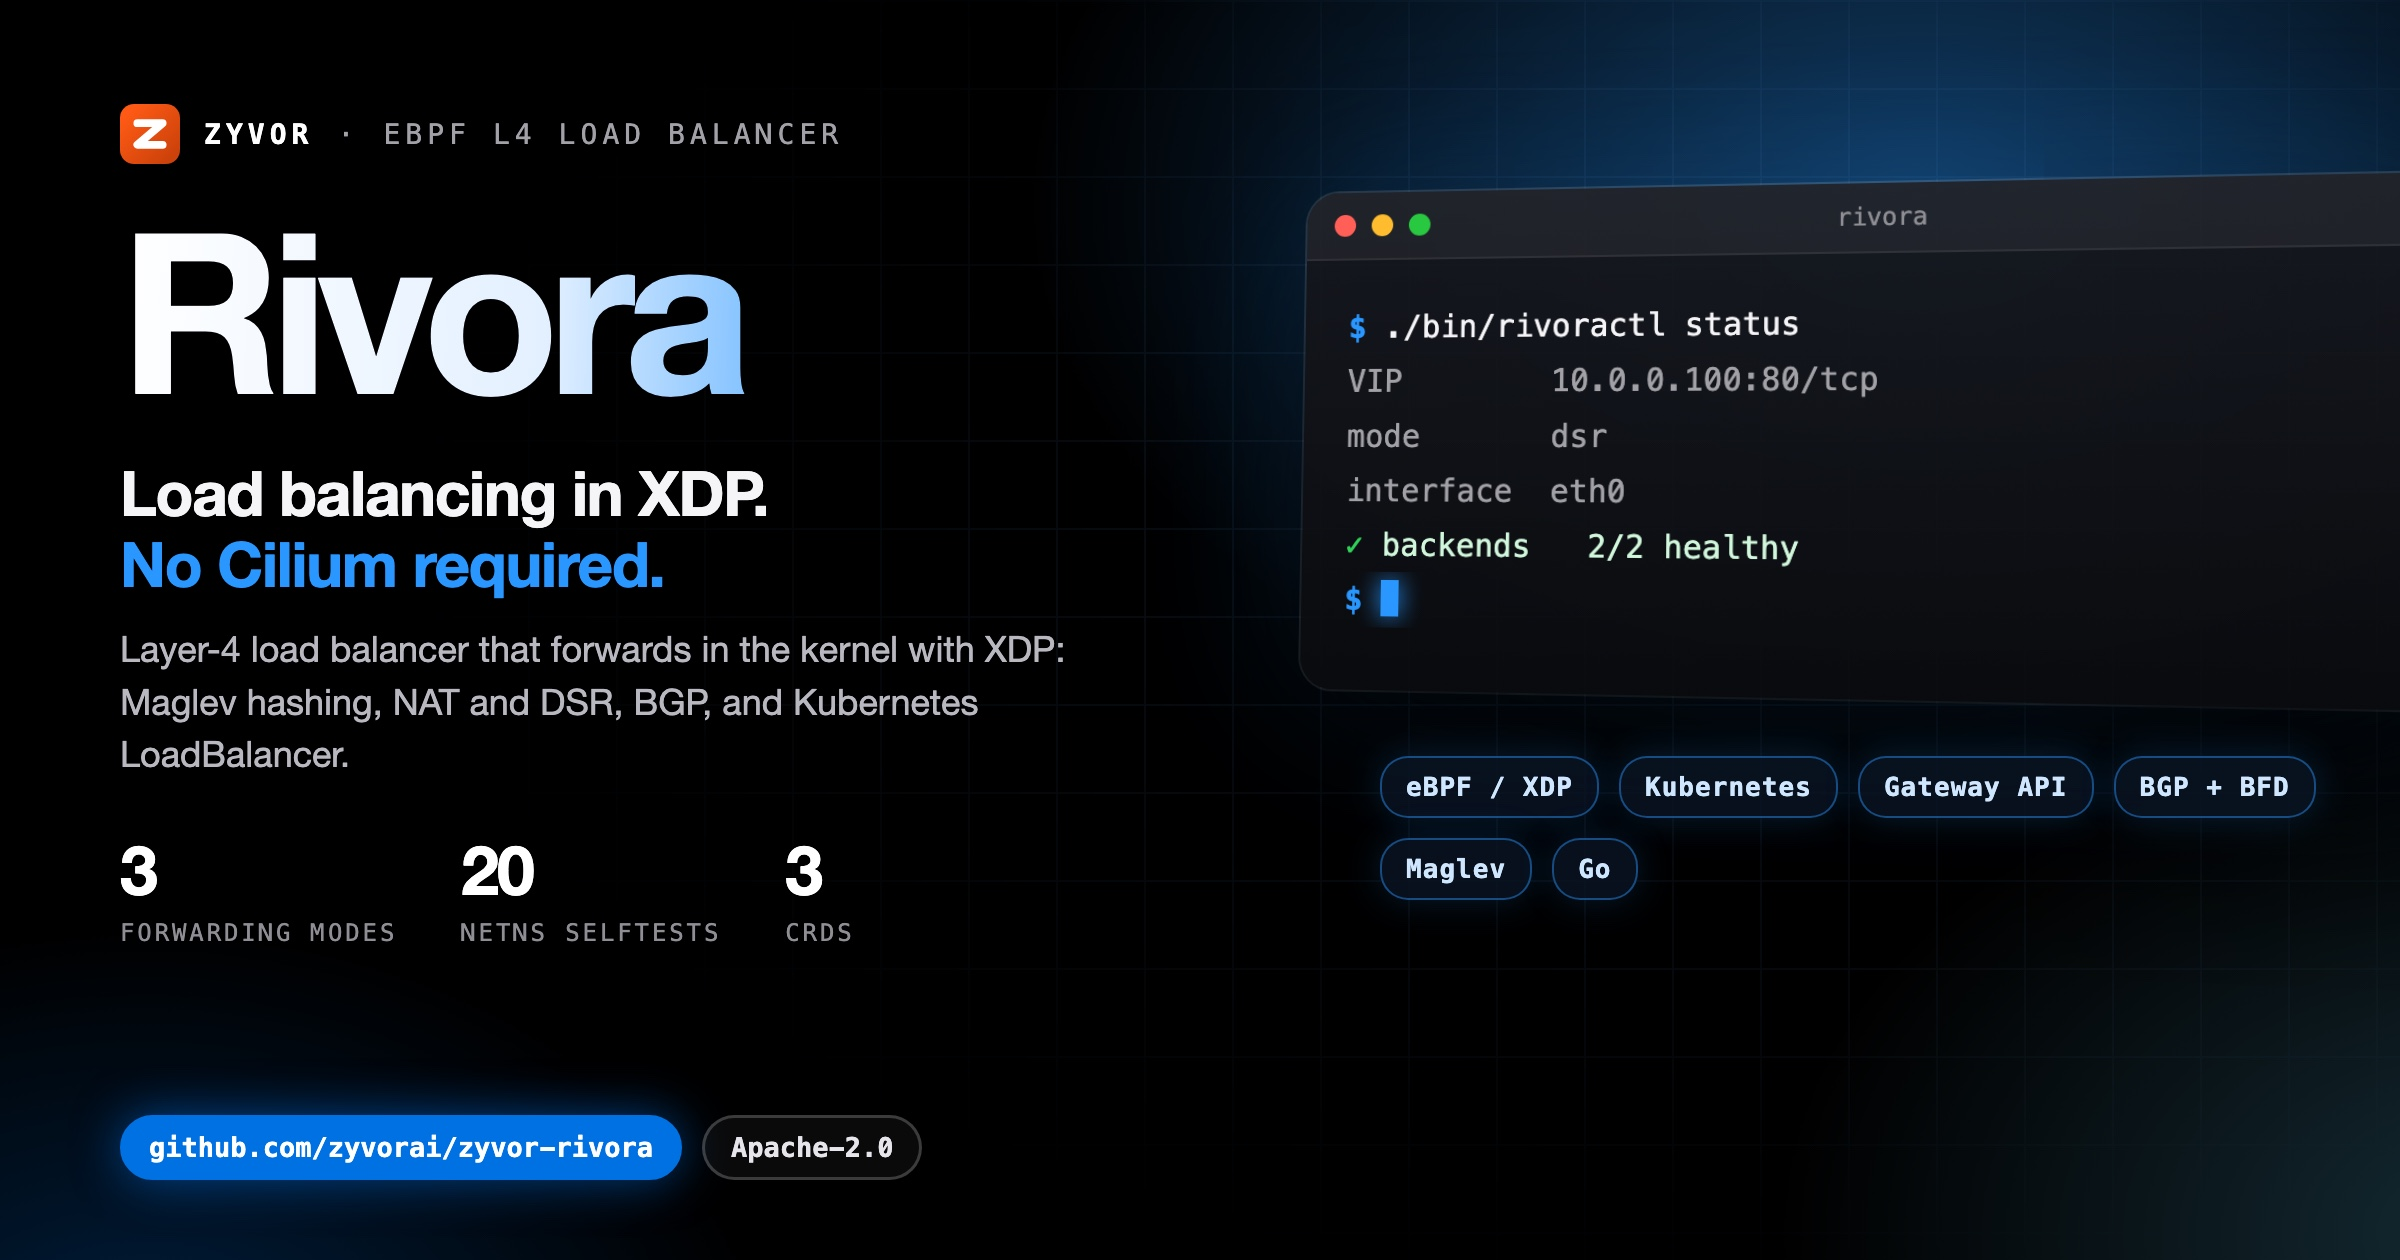
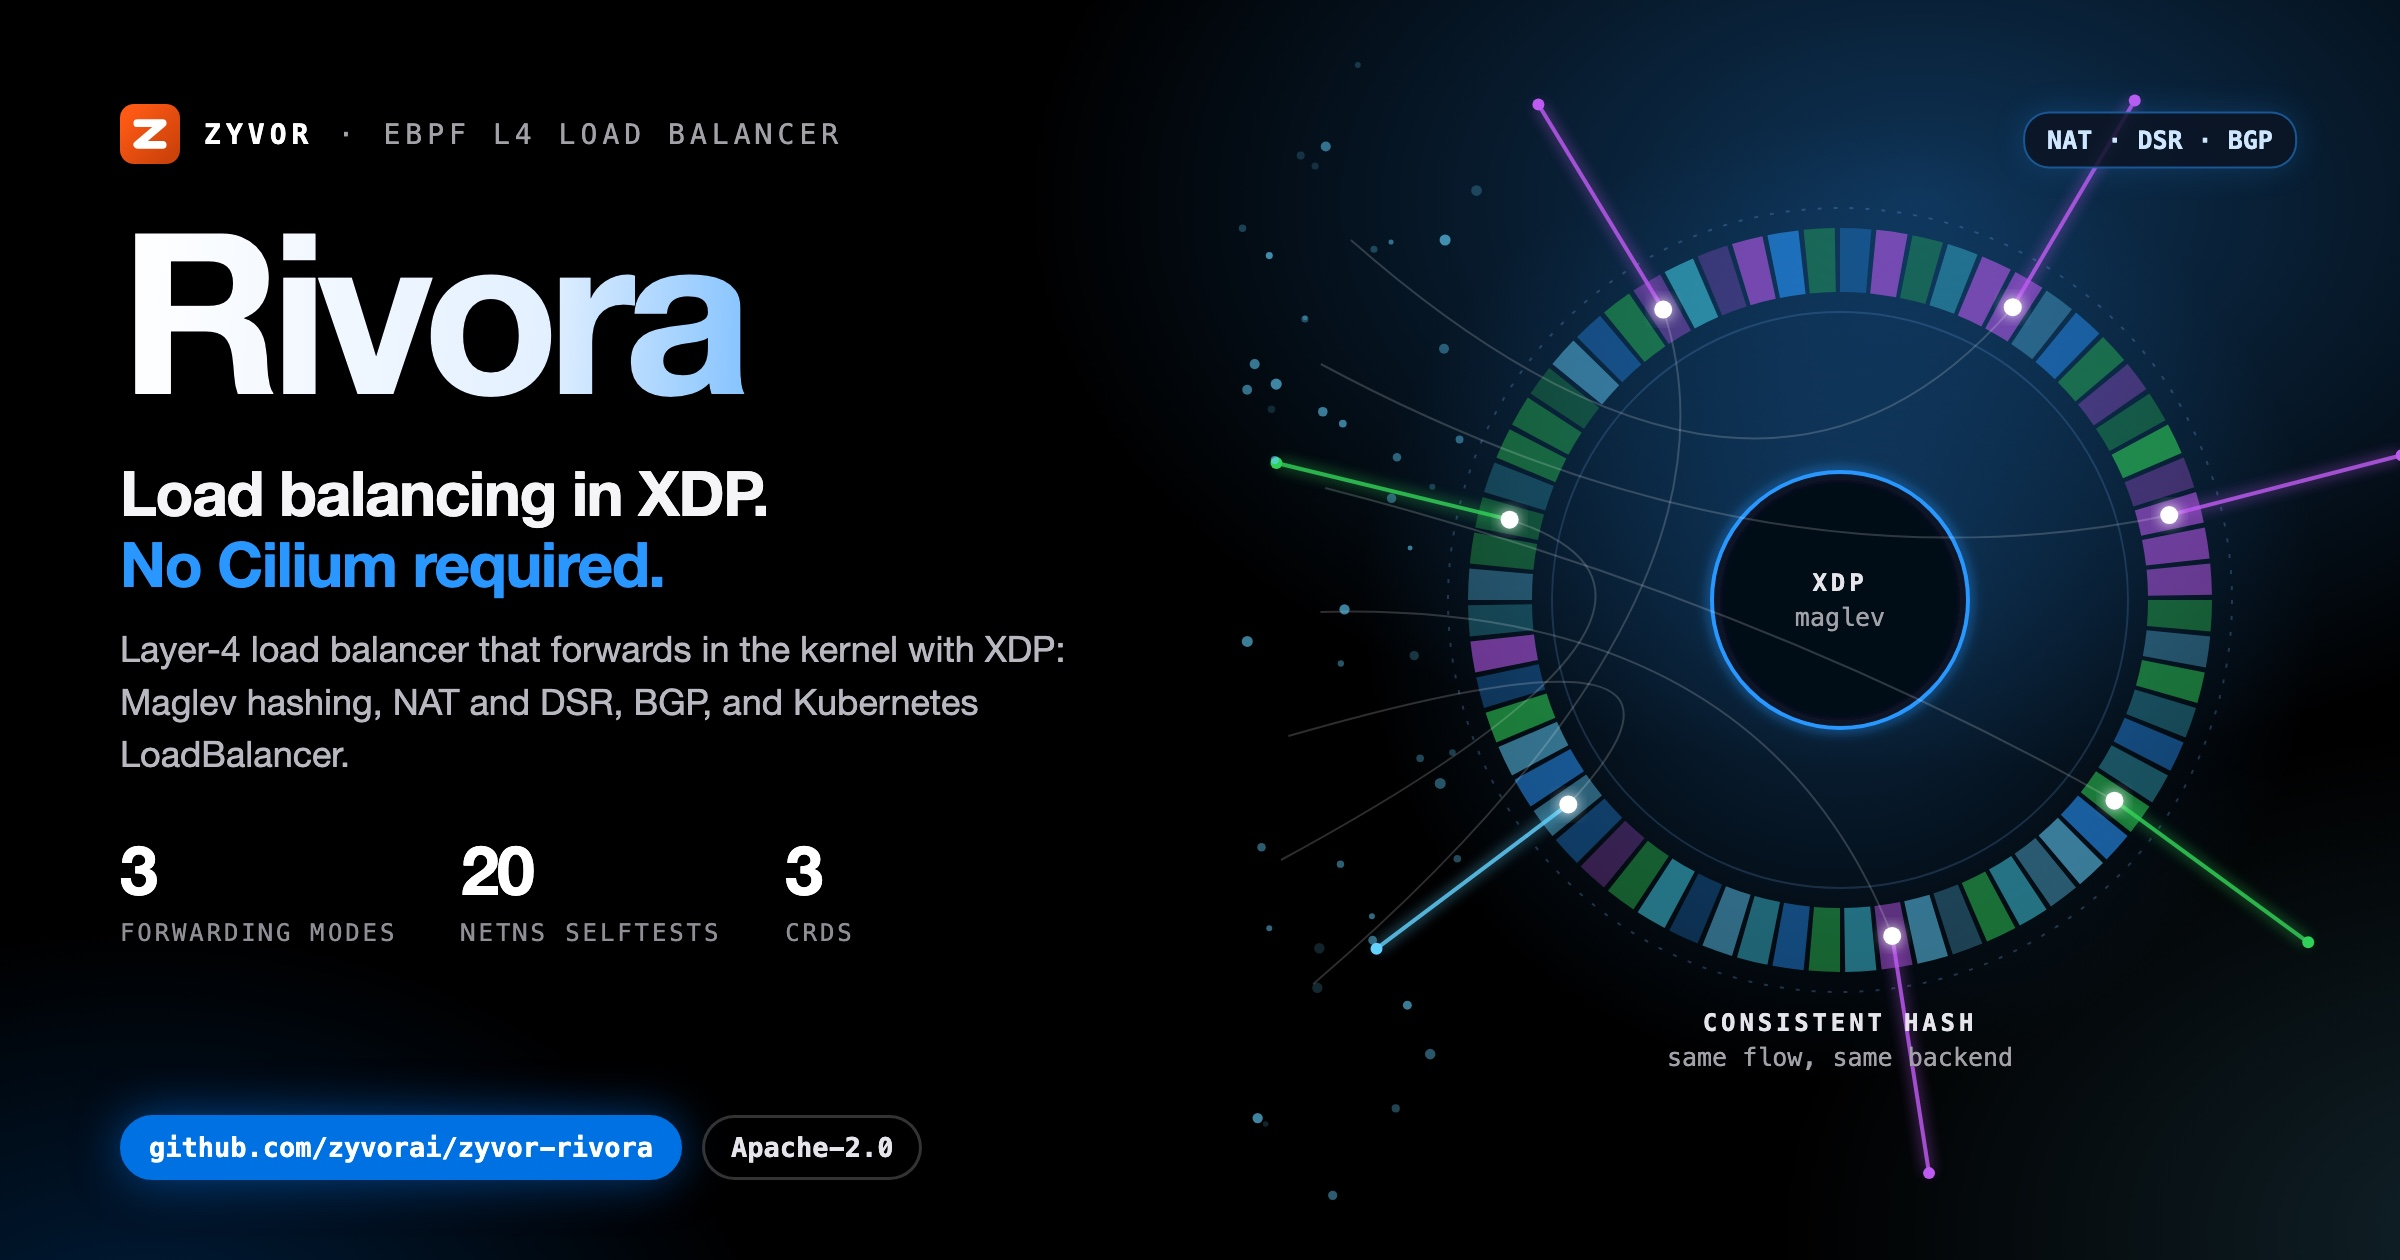
docs(social): unique illustrated hero card
Replace the shared terminal-window art with a motif drawn for this project;
same verified copy and stats on the left.

Changed region(s): [[0.5312, 0.0619, 1.0, 0.9286], [0.9375, 0.7119, 0.9688, 0.7429]]

diff --git a/docs/social/rivora-hero-dark.html b/docs/social/rivora-hero-dark.html
@@ -8,58 +8,47 @@
   Build: ./docs/social/build-hero-dark.sh  ->  rivora-hero-dark.jpg (2400x1260)
 -->
 <style>
-  :root { --blue:#0071e3; --signal:#2997ff; --cyan:#64d2ff; --green:#30d158; --amber:#ff9f0a;
+  :root { --blue:#0071e3; --signal:#2997ff; --cyan:#64d2ff; --green:#30d158; --amber:#ff9f0a; --red:#ff453a; --violet:#bf5af2;
     --sans:'SF Pro Display','Helvetica Neue',Helvetica,Arial,sans-serif; --mono:'SF Mono',Menlo,Consolas,monospace; }
   * { box-sizing:border-box; }
   html,body { margin:0; padding:0; }
   body { width:1200px; height:630px; overflow:hidden; color:#f5f5f7; font-family:var(--sans); position:relative; background:#000; }
   .aurora { position:absolute; inset:0;
-    background:radial-gradient(720px 460px at 80% 16%, rgba(41,151,255,.40), transparent 62%),
-               radial-gradient(600px 420px at 104% 98%, rgba(100,210,255,.20), transparent 60%),
+    background:radial-gradient(720px 460px at 80% 16%, rgba(41,151,255,.34), transparent 62%),
+               radial-gradient(600px 420px at 104% 98%, rgba(100,210,255,.16), transparent 60%),
                radial-gradient(520px 380px at 6% 110%, rgba(0,113,227,.28), transparent 60%); }
-  .grid { position:absolute; inset:0; opacity:.09;
-    background-image:linear-gradient(rgba(120,180,255,.9) 1px,transparent 1px),linear-gradient(90deg,rgba(120,180,255,.9) 1px,transparent 1px);
-    background-size:44px 44px; -webkit-mask-image:radial-gradient(900px 520px at 72% 42%, #000 18%, transparent 75%); }
-  .left { position:absolute; left:60px; top:52px; width:560px; z-index:3; }
+  .copy { position:absolute; left:60px; top:52px; width:560px; z-index:3; }
   .brand { display:flex; align-items:center; gap:12px; font-family:var(--mono); font-size:14px; letter-spacing:.18em; text-transform:uppercase; color:#a1a1a6; }
   .brand b { color:#fff; }
   .word { margin:20px 0 0; font-size:112px; line-height:.95; font-weight:800; letter-spacing:-.05em; white-space:nowrap;
     background:linear-gradient(92deg,#fff 0%,#e3f0ff 38%,var(--signal) 74%,var(--cyan) 100%); -webkit-background-clip:text; background-clip:text; color:transparent; padding-bottom:6px; }
   .tag { margin:14px 0 0; font-size:31px; line-height:1.15; font-weight:700; letter-spacing:-.02em; }
   .tag em { font-style:normal; color:var(--signal); }
-  .lede { margin:12px 0 0; font-size:18px; line-height:1.45; color:#b8b8bf; width:520px; }
+  .lede { margin:12px 0 0; font-size:18px; line-height:1.45; color:#b8b8bf; width:520px; text-shadow:0 1px 12px #000; }
   .stats { margin-top:24px; display:flex; gap:32px; }
   .stat b { display:block; font-size:34px; font-weight:800; letter-spacing:-.03em; color:#fff; }
   .stat span { font-family:var(--mono); font-size:12px; letter-spacing:.12em; text-transform:uppercase; color:#8e8e93; }
   .pill { position:absolute; left:60px; bottom:40px; display:flex; gap:10px; z-index:3; }
-  .pill span { font-family:var(--mono); font-size:13.5px; font-weight:700; padding:7px 13px; border-radius:18px; border:1.5px solid rgba(255,255,255,.2); color:#e5e5ea; background:rgba(255,255,255,.04); }
+  .pill span { font-family:var(--mono); font-size:13.5px; font-weight:700; padding:7px 13px; border-radius:18px; border:1.5px solid rgba(255,255,255,.2); color:#e5e5ea; background:rgba(0,0,0,.6); }
   .pill span.b { background:var(--blue); border-color:var(--blue); color:#fff; box-shadow:0 0 24px rgba(0,113,227,.55); }
-
-  .right { position:absolute; left:652px; top:96px; width:560px; z-index:2; }
-  .win { position:relative; width:560px; border-radius:16px; overflow:hidden; z-index:2;
-    background:linear-gradient(180deg, rgba(22,24,30,.94), rgba(10,11,14,.96));
-    box-shadow:0 50px 100px rgba(0,0,0,.75), 0 0 0 1px rgba(255,255,255,.14), 0 0 90px rgba(41,151,255,.22);
-    transform:perspective(1600px) rotateY(-14deg) rotateX(4deg); transform-origin:left center; }
-  .bar { height:34px; display:flex; align-items:center; gap:8px; padding:0 14px; background:rgba(255,255,255,.05); border-bottom:1px solid rgba(255,255,255,.07); }
-  .bar i { width:11px; height:11px; border-radius:50%; background:#ff5f57; } .bar i:nth-child(2){background:#febc2e} .bar i:nth-child(3){background:#28c840}
-  .bar em { margin-left:auto; margin-right:auto; font-style:normal; font-family:var(--mono); font-size:12px; color:#8e8e93; transform:translateX(-24px); }
-  .term { min-height:214px; padding:20px 22px 24px; font-family:var(--mono); font-size:15.5px; line-height:1.75; }
-  .l { white-space:pre; overflow:hidden; text-overflow:ellipsis; color:#f5f5f7; }
-  .l .p { color:var(--signal); font-weight:700; }
-  .l.out { color:#a1a1a6; }
-  .l.cm { color:#6e6e73; }
-  .l.ok { color:#d1f7dc; } .l.ok span { color:var(--green); font-weight:700; }
-  .l.warn { color:#ffe1b0; } .l.warn span { color:var(--amber); font-weight:700; }
-  .cur { display:inline-block; width:9px; height:18px; background:var(--signal); vertical-align:-3px; box-shadow:0 0 12px var(--signal); }
-  .chips { margin:34px 0 0 38px; width:480px; display:flex; flex-wrap:wrap; gap:10px; position:relative; z-index:3; }
-  .chips span { font-family:var(--mono); font-size:13px; font-weight:700; letter-spacing:.04em; padding:7px 12px; border-radius:14px;
-    color:#cfe6ff; background:rgba(10,20,35,.82); border:1px solid rgba(41,151,255,.45); box-shadow:0 0 18px rgba(41,151,255,.18); }
+  .art { position:absolute; left:520px; top:0; width:680px; height:630px; z-index:2; }
+  .art svg { display:block; }
+  #labels { position:absolute; inset:0; z-index:4; pointer-events:none; }
+  .lbl { position:absolute; font-family:var(--mono); font-size:12.5px; color:#a1a1a6; text-align:center; transform:translate(-50%,-50%); white-space:nowrap; }
+  .lbl b { display:block; font-size:12px; letter-spacing:.16em; text-transform:uppercase; color:#e5e5ea; }
+  .lbl span { display:block; margin-top:3px; }
+  .lbl.box { padding:7px 12px; border-radius:12px; background:rgba(8,10,14,.85); border:1px solid rgba(255,255,255,.14); }
+  .lbl.chip { padding:6px 11px; border-radius:13px; font-size:12.5px; font-weight:700; color:#cfe6ff; background:rgba(10,20,35,.85); border:1px solid rgba(41,151,255,.5); box-shadow:0 0 16px rgba(41,151,255,.2); }
+  .lbl.left { transform:translate(0,-50%); text-align:left; }
+  .lbl.right { transform:translate(-100%,-50%); text-align:right; }
+  .ok { color:var(--green) !important; } .warn { color:var(--amber) !important; } .bad { color:var(--red) !important; } .sig { color:var(--signal) !important; } .cy { color:var(--cyan) !important; } .vi { color:var(--violet) !important; }
 </style>
 </head>
 <body>
 <div class="aurora"></div>
-<div class="grid"></div>
-<div class="left">
+<div class="art"><svg id="art" width="680" height="630" viewBox="0 0 680 630" xmlns="http://www.w3.org/2000/svg"></svg></div>
+<div id="labels"></div>
+<div class="copy">
   <div class="brand"><svg viewBox="0 0 64 64" width="30" height="30" aria-hidden="true"><defs><linearGradient id="zb" x1="8" y1="8" x2="56" y2="56" gradientUnits="userSpaceOnUse"><stop offset="0" stop-color="#ff5a15"/><stop offset="1" stop-color="#cc420a"/></linearGradient></defs><rect width="64" height="64" rx="15" fill="url(#zb)"/><path d="M18.5,20.5 45.5,20.5 18.5,43.5 45.5,43.5" fill="none" stroke="#fff" stroke-width="8.3" stroke-linecap="round" stroke-linejoin="round"/></svg><b>Zyvor</b><span>&middot;</span><span>eBPF L4 load balancer</span></div>
   <div class="word">Rivora</div>
   <div class="tag">Load balancing in XDP.<br><em>No Cilium required.</em></div>
@@ -67,8 +56,55 @@
   <div class="stats"><div class="stat"><b>3</b><span>forwarding modes</span></div><div class="stat"><b>20</b><span>netns selftests</span></div><div class="stat"><b>3</b><span>CRDs</span></div></div>
 </div>
 <div class="pill"><span class="b">github.com/zyvorai/zyvor-rivora</span><span>Apache-2.0</span></div>
-<div class="right"><div class="win"><div class="bar"><i></i><i></i><i></i><em>rivora</em></div>
-<div class="term"><div class="l"><span class="p">$</span> ./bin/rivoractl status</div><div class="l out">VIP        10.0.0.100:80/tcp</div><div class="l out">mode       dsr</div><div class="l out">interface  eth0</div><div class="l ok"><span>&#10003;</span> backends   2/2 healthy</div><div class="l"><span class="p">$</span> <i class="cur"></i></div></div></div>
-<div class="chips"><span>eBPF / XDP</span><span>Kubernetes</span><span>Gateway API</span><span>BGP + BFD</span><span>Maglev</span><span>Go</span></div></div>
+<script>
+var Z = (function () {
+  var NS = 'http://www.w3.org/2000/svg', svg = document.getElementById('art'), labels = document.getElementById('labels');
+  var seed = 20261004;
+  function rnd() { seed = (seed * 1103515245 + 12345) % 2147483648; return seed / 2147483648; }
+  function el(tag, a, parent) { var n = document.createElementNS(NS, tag); for (var k in a) n.setAttribute(k, a[k]); (parent || svg).appendChild(n); return n; }
+  function g(attrs) { return el('g', attrs || {}); }
+  function label(x, y, inner, cls, style) { var d = document.createElement('div'); d.className = 'lbl ' + (cls || ''); d.style.left = (520 + x) + 'px'; d.style.top = y + 'px'; if (style) d.setAttribute('style', d.getAttribute('style') + ';' + style); d.innerHTML = inner; labels.appendChild(d); return d; }
+  return { NS: NS, svg: svg, W: 680, H: 630, rnd: rnd, el: el, g: g, label: label,
+    reseed: function (s) { seed = s; },
+    c: { blue: '#0071e3', signal: '#2997ff', cyan: '#64d2ff', green: '#30d158', amber: '#ff9f0a', red: '#ff453a', violet: '#bf5af2', teal: '#40c8e0', indigo: '#5e5ce6', pink: '#ff375f', white: '#f5f5f7', grey: '#8e8e93' } };
+})();
+(function () {
+// Rivora: Maglev consistent-hash ring. Packets fall in from the left, hash onto ring slots and leave to backends.
+var C = Z.c, cx = 400, cy = 300, R = 170, N = 64;
+var defs = Z.el('defs', {});
+defs.innerHTML = '<filter id="gl" x="-50%" y="-50%" width="200%" height="200%"><feGaussianBlur stdDeviation="3.5" result="b"/><feMerge><feMergeNode in="b"/><feMergeNode in="SourceGraphic"/></feMerge></filter>' +
+  '<filter id="sf" x="-50%" y="-50%" width="200%" height="200%"><feGaussianBlur stdDeviation="14"/></filter>' +
+  '<radialGradient id="core"><stop offset="0" stop-color="#2997ff" stop-opacity=".55"/><stop offset="1" stop-color="#2997ff" stop-opacity="0"/></radialGradient>';
+var backends = [C.cyan, C.signal, C.violet, C.green, C.teal];
+Z.el('circle', { cx: cx, cy: cy, r: R + 70, fill: 'url(#core)', opacity: .5 });
+var owner = [];
+for (var i = 0; i < N; i++) owner.push(Math.floor(Z.rnd() * backends.length));
+for (var i = 0; i < N; i++) {
+  var a0 = (i / N) * Math.PI * 2 - Math.PI / 2, a1 = ((i + 0.86) / N) * Math.PI * 2 - Math.PI / 2;
+  var r0 = R - 16, r1 = R + 16, col = backends[owner[i]];
+  var p = function (r, a) { return (cx + r * Math.cos(a)).toFixed(1) + ',' + (cy + r * Math.sin(a)).toFixed(1); };
+  Z.el('path', { d: 'M' + p(r0, a0) + ' L' + p(r1, a0) + ' A' + r1 + ',' + r1 + ' 0 0 1 ' + p(r1, a1) + ' L' + p(r0, a1) + ' A' + r0 + ',' + r0 + ' 0 0 0 ' + p(r0, a0) + 'Z',
+    fill: col, opacity: (0.25 + Z.rnd() * 0.35).toFixed(2) });
+}
+Z.el('circle', { cx: cx, cy: cy, r: R + 26, fill: 'none', stroke: 'rgba(120,185,255,.25)', 'stroke-dasharray': '2 6' });
+Z.el('circle', { cx: cx, cy: cy, r: R - 26, fill: 'none', stroke: 'rgba(120,185,255,.18)' });
+Z.el('circle', { cx: cx, cy: cy, r: 64, fill: 'rgba(6,10,18,.92)', stroke: C.signal, 'stroke-width': 2, filter: 'url(#gl)' });
+Z.label(cx, cy, '<b>XDP</b><span>maglev</span>');
+var hits = [5, 13, 22, 30, 41, 50, 58];
+hits.forEach(function (h, k) {
+  var a = ((h + 0.43) / N) * Math.PI * 2 - Math.PI / 2, col = backends[owner[h]];
+  var hx = cx + R * Math.cos(a), hy = cy + R * Math.sin(a);
+  var sx = 120 + Z.rnd() * 40, sy = 120 + k * 62;
+  Z.el('path', { d: 'M' + sx + ',' + sy + ' Q' + (cx - 40) + ',' + cy + ' ' + hx.toFixed(1) + ',' + hy.toFixed(1), fill: 'none', stroke: '#fff', 'stroke-width': 1, opacity: .18 });
+  var ox = cx + (R + 120) * Math.cos(a), oy = cy + (R + 120) * Math.sin(a);
+  Z.el('line', { x1: hx, y1: hy, x2: ox, y2: oy, stroke: col, 'stroke-width': 2, opacity: .85, filter: 'url(#gl)' });
+  Z.el('circle', { cx: hx, cy: hy, r: 4.5, fill: '#fff', filter: 'url(#gl)' });
+  Z.el('circle', { cx: ox, cy: oy, r: 3, fill: col });
+});
+for (var i = 0; i < 46; i++) { var y = 30 + Z.rnd() * 570, x = 100 + Z.rnd() * 120; Z.el('circle', { cx: x, cy: y, r: 1.2 + Z.rnd() * 1.6, fill: C.cyan, opacity: (0.15 + Z.rnd() * 0.5).toFixed(2) }); }
+Z.label(cx, cy + R + 50, '<b>consistent hash</b><span>same flow, same backend</span>');
+Z.label(560, 70, 'NAT &middot; DSR &middot; BGP', 'chip');
+})();
+</script>
 </body>
 </html>
